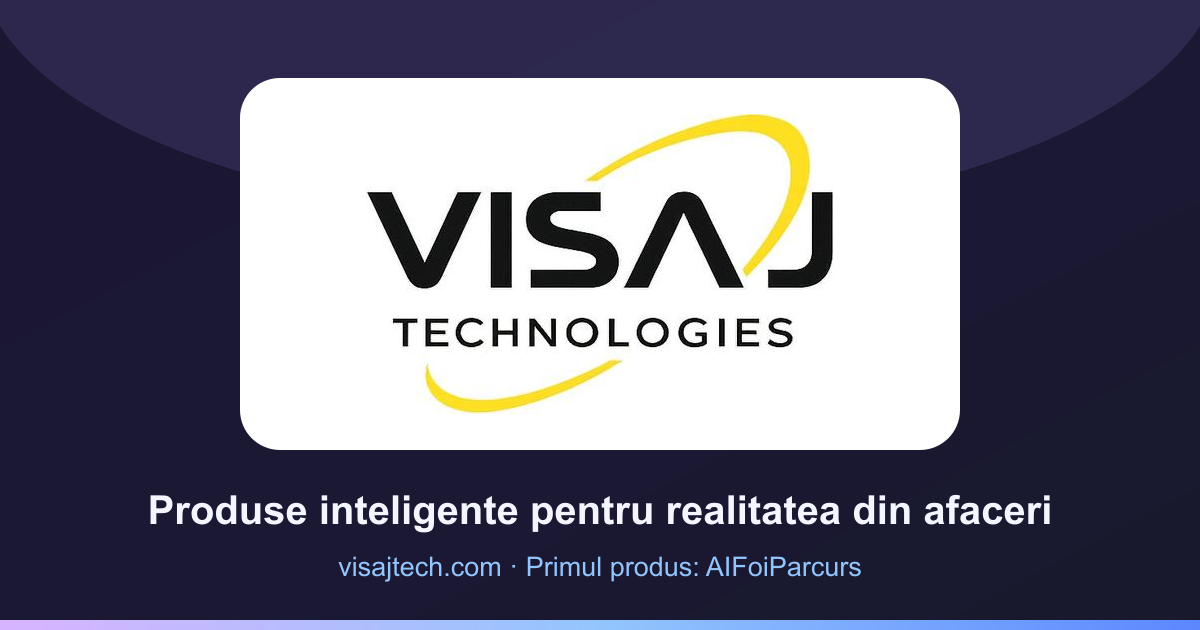
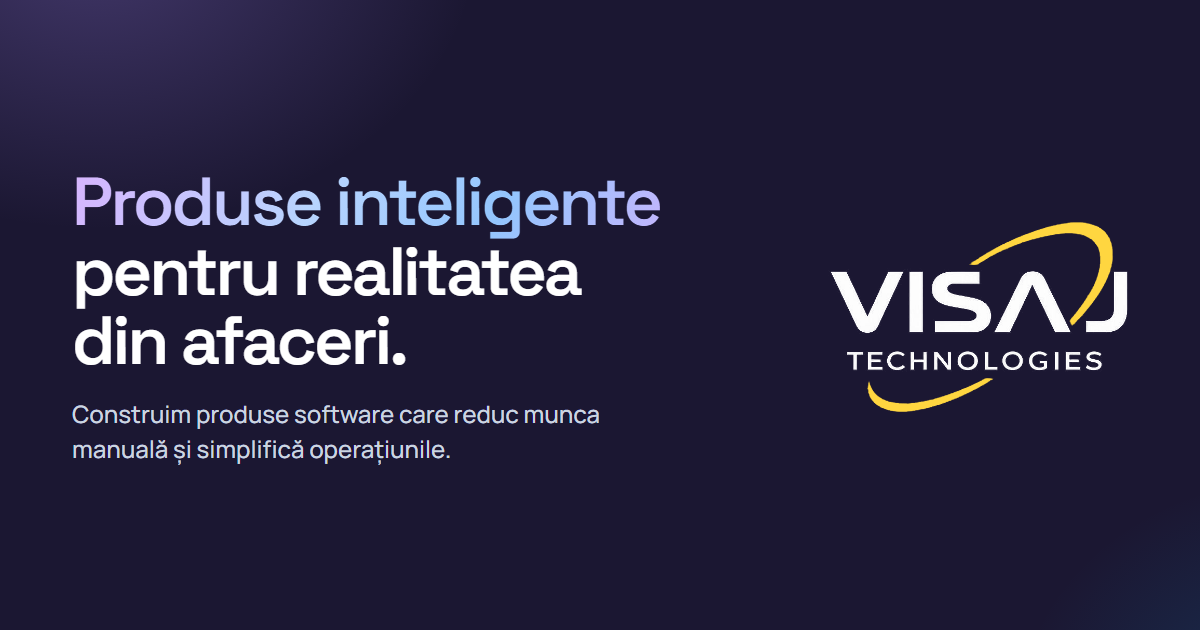
ajustari cum arata site ul pe google la cautare

diff --git a/index.html b/index.html
@@ -5,13 +5,13 @@
     <meta name="viewport" content="width=device-width, initial-scale=1.0" />
     <meta
       name="description"
-      content="Visaj Technologies dezvoltă produse software AI pentru companii: automatizări operaționale, procesare date, integrare de sisteme și software operațional. Primul produs: AIFoiParcurs — foi de parcurs auto generate cu AI."
+      content="Produse inteligente pentru realitatea din afaceri. Reducem munca manuală și simplificăm operațiunile de zi cu zi. Primul produs: AIFoiParcurs."
     />
     <meta
       name="keywords"
       content="software AI, automatizări AI, software operațional pentru companii, procesare date, integrare sisteme, foi de parcurs auto AI, AIFoiParcurs, Visaj Technologies"
     />
-    <title>Visaj Technologies | Software AI pentru automatizarea proceselor operaționale</title>
+    <title>Visaj Technologies | Produse inteligente pentru afaceri</title>
     <link rel="canonical" href="https://www.visajtech.com/" />
     <meta name="google-site-verification" content="z_Dpl8h7WGIhEczEYnFtyca2MBU_VgEMRzqoocMLjf0" />
     <meta name="robots" content="index, follow, max-image-preview:large" />
@@ -29,23 +29,23 @@
     <meta property="og:site_name" content="Visaj Technologies" />
     <meta property="og:locale" content="ro_RO" />
     <meta property="og:url" content="https://www.visajtech.com/" />
-    <meta property="og:title" content="Visaj Technologies | Software AI pentru automatizarea proceselor operaționale" />
+    <meta property="og:title" content="Visaj Technologies | Produse inteligente pentru afaceri" />
     <meta
       property="og:description"
-      content="Produse software AI pentru companii: automatizări operaționale, procesare date și integrare de sisteme. Primul produs: AIFoiParcurs — foi de parcurs auto generate cu AI."
+      content="Produse inteligente pentru realitatea din afaceri. Reducem munca manuală și simplificăm operațiunile de zi cu zi. Primul produs: AIFoiParcurs."
     />
-    <meta property="og:image" content="https://www.visajtech.com/og-image.png" />
+    <meta property="og:image" content="https://www.visajtech.com/og-image.png?v=3" />
     <meta property="og:image:width" content="1200" />
     <meta property="og:image:height" content="630" />
-    <meta property="og:image:alt" content="Visaj Technologies — produse software AI-first" />
+    <meta property="og:image:alt" content="Visaj Technologies — produse inteligente pentru realitatea din afaceri" />
 
     <meta name="twitter:card" content="summary_large_image" />
-    <meta name="twitter:title" content="Visaj Technologies | Software AI pentru automatizarea proceselor operaționale" />
+    <meta name="twitter:title" content="Visaj Technologies | Produse inteligente pentru afaceri" />
     <meta
       name="twitter:description"
-      content="Produse software AI pentru companii: automatizări operaționale, procesare date și integrare de sisteme. Primul produs: AIFoiParcurs."
+      content="Produse inteligente pentru realitatea din afaceri. Reducem munca manuală și simplificăm operațiunile de zi cu zi. Primul produs: AIFoiParcurs."
     />
-    <meta name="twitter:image" content="https://www.visajtech.com/og-image.png" />
+    <meta name="twitter:image" content="https://www.visajtech.com/og-image.png?v=3" />
 
     <link rel="preconnect" href="https://fonts.googleapis.com" />
     <link rel="preconnect" href="https://fonts.gstatic.com" crossorigin />
@@ -65,8 +65,8 @@
             "name": "Visaj Technologies",
             "url": "https://www.visajtech.com/",
             "email": "visajtech@visaj.ro",
-            "logo": "https://www.visajtech.com/og-image.png",
-            "description": "Visaj Technologies construiește produse software AI-first pentru procese operaționale reale: automatizare aplicată și sisteme care înțeleg tipare și context.",
+            "logo": "https://www.visajtech.com/og-image.png?v=3",
+            "description": "Produse inteligente pentru realitatea din afaceri. Reducem munca manuală și simplificăm operațiunile de zi cu zi. Primul produs: AIFoiParcurs.",
             "founder": { "@id": "https://www.visajtech.com/sasa-cioringa#person" },
             "brand": {
               "@type": "Brand",
@@ -303,7 +303,7 @@
       <section class="section section--product reveal" id="produse" aria-labelledby="product-title">
         <div class="shell">
           <header class="section-head section-head--center">
-            <h2 id="product-title">Produse</h2>
+            <h2 id="product-title">Produsele noastre</h2>
           </header>
 
           <div class="product-grid">

diff --git a/blog.html b/blog.html
@@ -29,7 +29,7 @@
       property="og:description"
       content="Articole semnate de Sasa Cioringa, Founder &amp; CEO Visaj Technologies. Business, tehnologie, AI, automotive, digitalizare."
     />
-    <meta property="og:image" content="https://www.visajtech.com/og-image.png" />
+    <meta property="og:image" content="https://www.visajtech.com/og-image.png?v=3" />
     <meta property="og:image:width" content="1200" />
     <meta property="og:image:height" content="630" />
     <meta property="og:image:alt" content="Visaj Technologies — Blog" />
@@ -40,7 +40,7 @@
       name="twitter:description"
       content="Articole semnate de Sasa Cioringa, Founder &amp; CEO Visaj Technologies."
     />
-    <meta name="twitter:image" content="https://www.visajtech.com/og-image.png" />
+    <meta name="twitter:image" content="https://www.visajtech.com/og-image.png?v=3" />
 
     <link rel="preconnect" href="https://fonts.googleapis.com" />
     <link rel="preconnect" href="https://fonts.gstatic.com" crossorigin />
